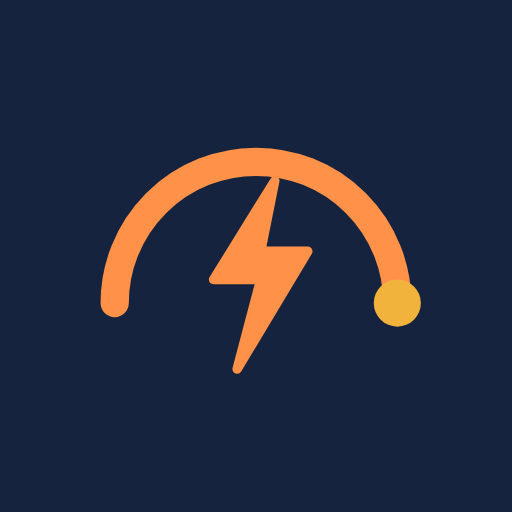
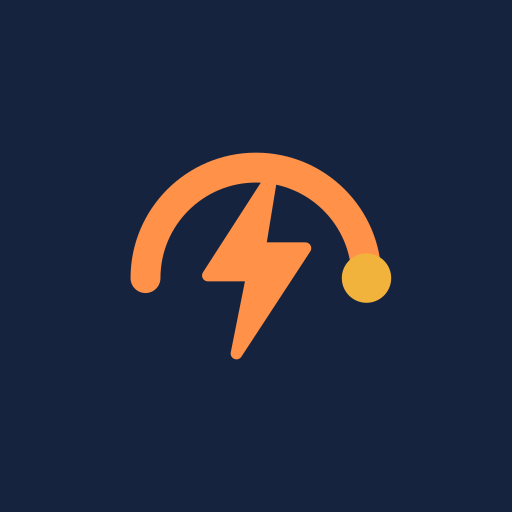
Icônes nettes : redessinées en vectoriel et rendues avec lissage des bords
Claude-Session: https://claude.ai/code/session_01BSJJ47UcXAZ5iQxA68haju

Changed region(s): [[0.1875, 0.2812, 0.8438, 0.75], [0.5, 0.4375, 0.625, 0.5625]]

diff --git a/index.html b/index.html
@@ -7,9 +7,9 @@
 <meta name="description" content="Power Log — comprendre et réduire sa consommation d'électricité (Woyofal / Senelec), 100 % hors ligne.">
 <title>Power Log</title>
 <link rel="manifest" href="manifest.webmanifest">
-<link rel="icon" type="image/png" sizes="32x32" href="icon-32.png?v=tl2">
-<link rel="icon" type="image/png" sizes="192x192" href="icon-192.png?v=tl2">
-<link rel="apple-touch-icon" href="apple-touch-icon.png?v=tl2">
+<link rel="icon" type="image/png" sizes="32x32" href="icon-32.png?v=tl3">
+<link rel="icon" type="image/png" sizes="192x192" href="icon-192.png?v=tl3">
+<link rel="apple-touch-icon" href="apple-touch-icon.png?v=tl3">
 <meta name="mobile-web-app-capable" content="yes">
 <meta name="apple-mobile-web-app-capable" content="yes">
 <meta name="apple-mobile-web-app-status-bar-style" content="default">
@@ -1265,7 +1265,7 @@ function tlwHTML(c){return '<div class="tlw" style="--tlw:'+c.accent+'"><div cla
 function renderLock(err = '') {
   const lic = getLic(), ti = trialInfo();
   document.body.classList.add('locked');
-  if (!ti.started && !LIC_OK && !TLW_FULL) { $('#lock').innerHTML = tlwHTML({accent:'#c2410c',icon:'icon-192.png?v=tl2',name:APP,by:t('par') + ' ' + TEAM,top:'<div class="lang-row">' + Object.keys(LANGS).map(k => `<button class="chip ${lang() === k ? 'on' : ''}" data-action="lock-lang" data-id="${k}">${k.toUpperCase()}</button>`).join('') + '</div>',l1:t('Comprenez votre électricité.'),l2:t('Payez moins.'),sub:t('Le carnet de bord de votre compteur Woyofal, simple et 100 % hors ligne.'),prev:'<div class="tlw-ph"><span>' + t('Compteur maison') + '</span><span>' + t('Exemple') + '</span></div><div class="tlw-big">' + t('≈ 9 jours restants') + '</div><div class="tlw-row"><span><b>' + t('Crédit restant') + '</b><div class="tlw-bar"><i style="width:38%"></i></div></span><b>46 kWh</b></div><div class="tlw-row"><span><b>' + t('Clim du salon') + '</b><div class="tlw-bar"><i style="width:64%"></i></div></span><b>' + t('64 % de la conso') + '</b></div><div class="tlw-tip">' + t('Conseil : attendez le 1er du mois pour recharger.') + '</div>',feats:[[ '<svg width="20" height="20" viewBox="0 0 24 24" fill="none" stroke="currentColor" stroke-width="2" stroke-linecap="round" stroke-linejoin="round" aria-hidden="true"><path d="M12 14l4-4"/><path d="M3.5 18a10 10 0 1 1 17 0"/></svg>', t('Tranches Senelec expliquées'), t('Le vrai prix de votre prochain kWh')],['<svg width="20" height="20" viewBox="0 0 24 24" fill="none" stroke="currentColor" stroke-width="2" stroke-linecap="round" stroke-linejoin="round" aria-hidden="true"><path d="M9 2v5M15 2v5M6 7h12v4a6 6 0 0 1-12 0V7ZM12 17v5"/></svg>', t('Qui consomme quoi ?'), t('Le coût de chaque appareil, par jour et par mois')],['<svg width="20" height="20" viewBox="0 0 24 24" fill="none" stroke="currentColor" stroke-width="2" stroke-linecap="round" stroke-linejoin="round" aria-hidden="true"><path d="M13 2 4 14h7l-1 8 9-12h-7l1-8Z"/></svg>', t('Conseil de recharge'), t('Quand recharger, et combien')]],cta:t('Essayer gratuitement 48 h'),start:'trial-start',price:t('Puis 5 000 F, une seule fois'),have:t('J’ai déjà un code'),full:'lock-full'}); return; }
+  if (!ti.started && !LIC_OK && !TLW_FULL) { $('#lock').innerHTML = tlwHTML({accent:'#c2410c',icon:'icon-192.png?v=tl3',name:APP,by:t('par') + ' ' + TEAM,top:'<div class="lang-row">' + Object.keys(LANGS).map(k => `<button class="chip ${lang() === k ? 'on' : ''}" data-action="lock-lang" data-id="${k}">${k.toUpperCase()}</button>`).join('') + '</div>',l1:t('Comprenez votre électricité.'),l2:t('Payez moins.'),sub:t('Le carnet de bord de votre compteur Woyofal, simple et 100 % hors ligne.'),prev:'<div class="tlw-ph"><span>' + t('Compteur maison') + '</span><span>' + t('Exemple') + '</span></div><div class="tlw-big">' + t('≈ 9 jours restants') + '</div><div class="tlw-row"><span><b>' + t('Crédit restant') + '</b><div class="tlw-bar"><i style="width:38%"></i></div></span><b>46 kWh</b></div><div class="tlw-row"><span><b>' + t('Clim du salon') + '</b><div class="tlw-bar"><i style="width:64%"></i></div></span><b>' + t('64 % de la conso') + '</b></div><div class="tlw-tip">' + t('Conseil : attendez le 1er du mois pour recharger.') + '</div>',feats:[[ '<svg width="20" height="20" viewBox="0 0 24 24" fill="none" stroke="currentColor" stroke-width="2" stroke-linecap="round" stroke-linejoin="round" aria-hidden="true"><path d="M12 14l4-4"/><path d="M3.5 18a10 10 0 1 1 17 0"/></svg>', t('Tranches Senelec expliquées'), t('Le vrai prix de votre prochain kWh')],['<svg width="20" height="20" viewBox="0 0 24 24" fill="none" stroke="currentColor" stroke-width="2" stroke-linecap="round" stroke-linejoin="round" aria-hidden="true"><path d="M9 2v5M15 2v5M6 7h12v4a6 6 0 0 1-12 0V7ZM12 17v5"/></svg>', t('Qui consomme quoi ?'), t('Le coût de chaque appareil, par jour et par mois')],['<svg width="20" height="20" viewBox="0 0 24 24" fill="none" stroke="currentColor" stroke-width="2" stroke-linecap="round" stroke-linejoin="round" aria-hidden="true"><path d="M13 2 4 14h7l-1 8 9-12h-7l1-8Z"/></svg>', t('Conseil de recharge'), t('Quand recharger, et combien')]],cta:t('Essayer gratuitement 48 h'),start:'trial-start',price:t('Puis 5 000 F, une seule fois'),have:t('J’ai déjà un code'),full:'lock-full'}); return; }
   const trialHtml = ti.active
     ? `<div class="alert alert-amber"><span class="a-ic">🎁</span><span>${t('Essai gratuit en cours : il reste <b>{d}</b>.', {d: fmtLeft(ti.left)})}</span></div><button type="button" class="btn btn-block" data-action="trial-back">${t("← Continuer l'essai gratuit")}</button>`
     : ti.started

diff --git a/sw.js b/sw.js
@@ -1,7 +1,7 @@
 /* Power Log — service worker : appli disponible hors ligne, mises à jour automatiques */
-const CACHE = 'power-log-v1.28';
+const CACHE = 'power-log-v1.29';
 const PREFIX = 'power-log-v'; /* les applis Thousand Labs partagent le même domaine : on ne touche qu'à NOS caches */
-const ASSETS = ['./', './index.html', './manifest.webmanifest', './icon-192.png?v=tl2', './icon-512.png?v=tl2', './apple-touch-icon.png?v=tl2', './icon-32.png?v=tl2'];
+const ASSETS = ['./', './index.html', './manifest.webmanifest', './icon-192.png?v=tl3', './icon-512.png?v=tl3', './apple-touch-icon.png?v=tl3', './icon-32.png?v=tl3'];
 const OFFLINE = () => new Response(
         '<!doctype html><meta charset="utf-8"><meta name="viewport" content="width=device-width,initial-scale=1"><body style="font-family:sans-serif;padding:24px;text-align:center"><h2>Hors ligne</h2><p>Ouvrez l\'appli une fois avec une connexion pour l\'activer hors ligne, puis réessayez.</p></body>',
         { headers: { 'Content-Type': 'text/html; charset=utf-8' } });
